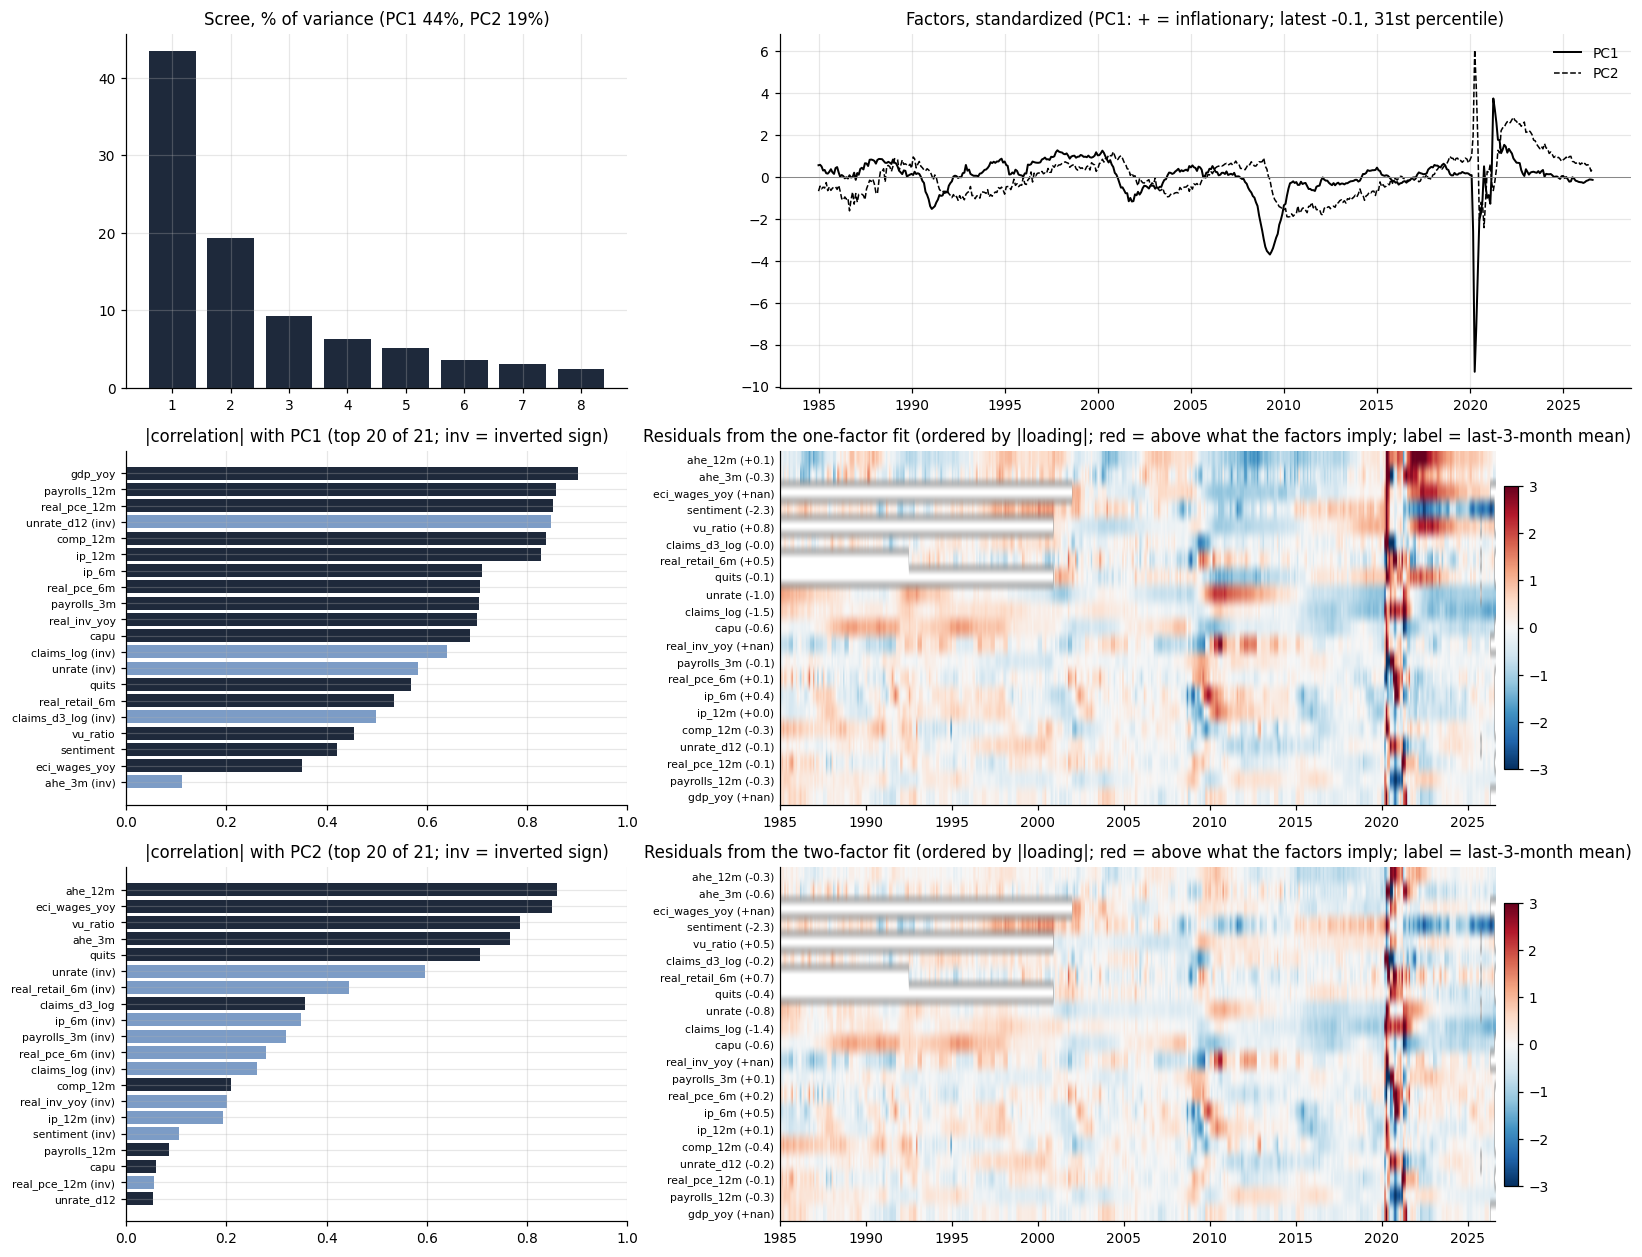
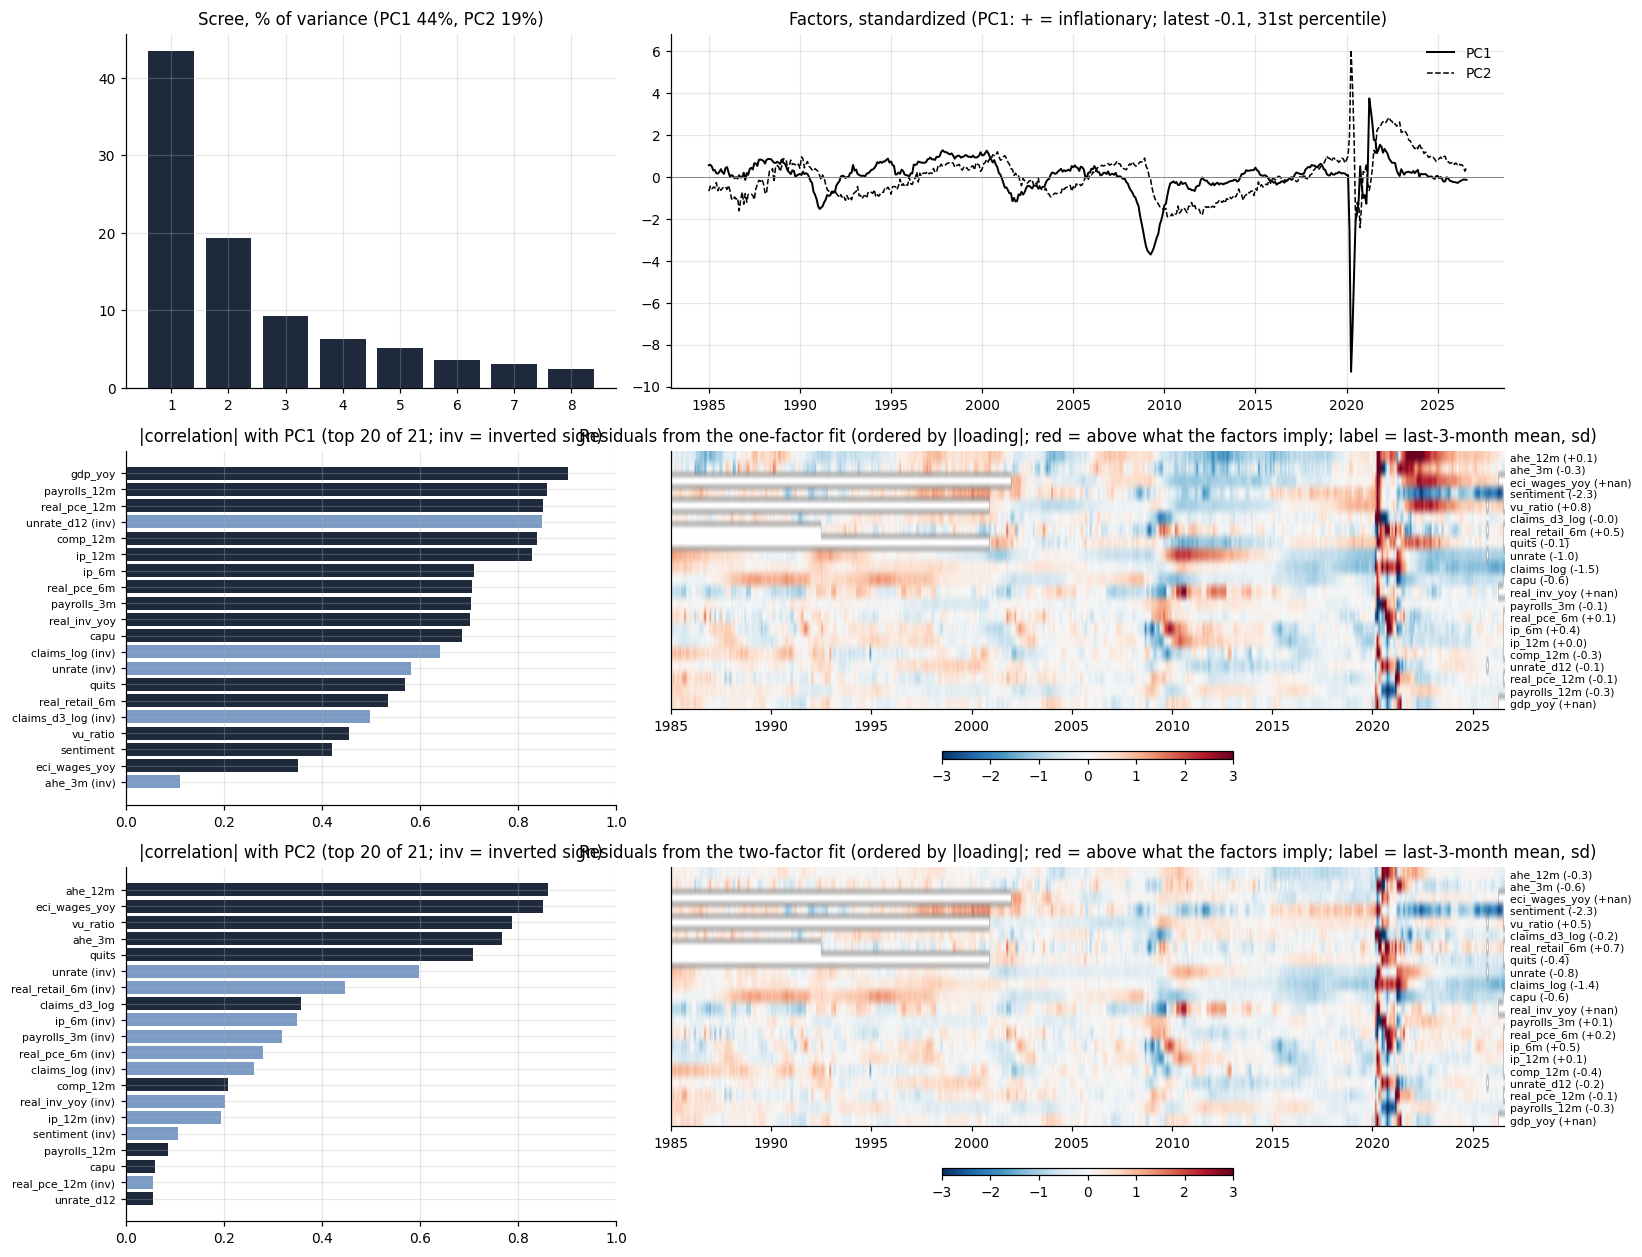
US inflation signals: heatmap variable labels on the right axis, horizontal colorbar

diff --git a/run.py b/run.py
@@ -219,8 +219,9 @@ def block_eda(name, df, ref, flip=False, title=""):
         im = a.imshow(res[order].T.values, aspect="auto", cmap="RdBu_r", vmin=-3, vmax=3, extent=[mdates.date2num(res.index[0]), mdates.date2num(res.index[-1]), len(order), 0]); a.xaxis_date(); a.grid(False)
         last = res[order].iloc[-3:].mean()                       # label every variable when readable, otherwise only those with a large end-of-sample residual
         lab_rows = list(range(len(order))) if len(order) <= 45 else [i for i, c in enumerate(order) if abs(last[c]) > 1.0]
-        a.set_yticks([i + 0.5 for i in lab_rows]); a.set_yticklabels([f"{vname(order[i])} ({last[order[i]]:+.1f})" for i in lab_rows], fontsize=5.5 if len(lab_rows) > 25 else 7); a.tick_params(axis="y", length=0)
-        a.set_title(f"Residuals from the {lab} fit (ordered by |loading|; red = above what the factors imply; label = last-3-month mean)"); fig.colorbar(im, ax=a, shrink=.8, pad=.01)
+        a.yaxis.tick_right(); a.set_yticks([i + 0.5 for i in lab_rows]); a.set_yticklabels([f"{vname(order[i])} ({last[order[i]]:+.1f})" for i in lab_rows], fontsize=5.5 if len(lab_rows) > 25 else 7); a.tick_params(axis="y", length=0)
+        a.set_title(f"Residuals from the {lab} fit (ordered by |loading|; red = above what the factors imply; label = last-3-month mean, sd)")
+        fig.colorbar(im, ax=a, orientation="horizontal", shrink=.35, pad=.12, aspect=40)
     corr_panel(ax[1, 0], l1, "PC1"); heat(ax[1, 1], res1, l1, "one-factor"); corr_panel(ax[2, 0], l2, "PC2"); heat(ax[2, 1], res2, l1, "two-factor")
     plt.tight_layout(); R.fig(fig, f"block_{name}", title)
     top_res = res1.iloc[-1].dropna(); top_res = top_res.reindex(top_res.abs().sort_values().index[-3:][::-1]); res = res1
